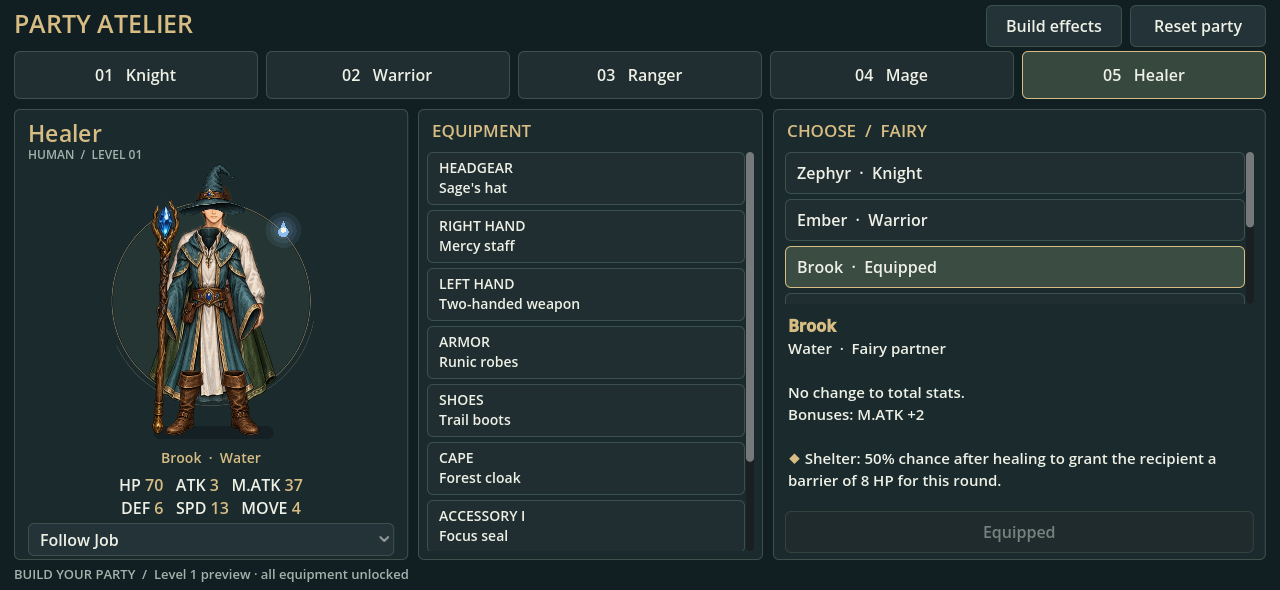
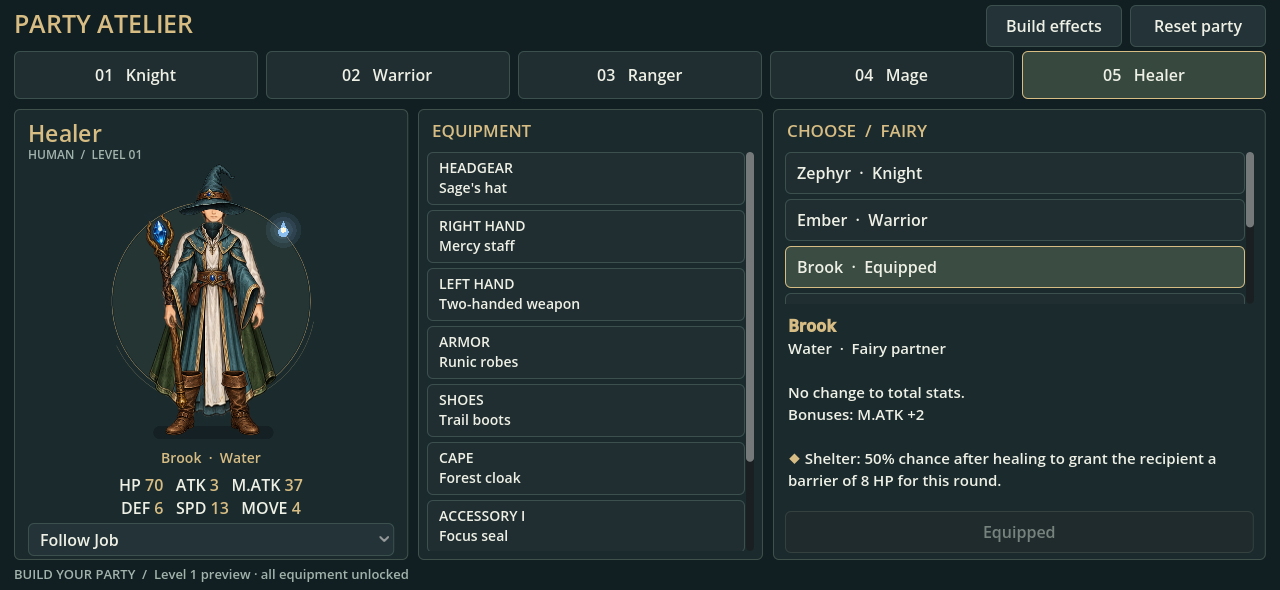
fix: anchor fantasy weapons to hands and fit armor to body (#76)

Changed region(s): [[0.0938, 0.3356, 0.2188, 0.7322]]

diff --git a/tests/test_fantasy_builder_static.py b/tests/test_fantasy_builder_static.py
@@ -7,6 +7,12 @@ ROOT = Path(__file__).resolve().parents[1]
 
 
 class FantasyBuilderStaticTests(unittest.TestCase):
+    def test_equipment_draw_uses_registration_and_hand_occlusion(self):
+        view = (ROOT / 'src/ui/fantasy_paper_doll.gd').read_text()
+        self.assertIn('art_transform(art)', view)
+        self.assertIn('draw_gripping_hand()', view)
+        self.assertNotIn('ATLAS, PLACEMENTS[art], REGIONS[art]', view)
+
     def test_f5_runs_the_fantasy_builder(self):
         project = (ROOT / 'project.godot').read_text()
         self.assertIn('run/main_scene="res://scenes/fantasy_builder.tscn"', project)

diff --git a/docs/art/fantasy-equipment-atlas.md b/docs/art/fantasy-equipment-atlas.md
@@ -4,6 +4,12 @@ Generated with the built-in image generation tool on 2026-09-07. Source copied i
 
 This is static prototype art. Gear variants can share layers. The spear and wand currently reuse the staff silhouette; finer equipment-specific artwork is future work.
 
+## Registration correction
+
+Weapons now rotate around measured source grip points registered to the base body's palm, with uniform scaling to preserve their silhouette. The sword angles downward/outward, the staff and bow lean outward, and the shield centers on the other hand. A foreground crop of the existing wrist/fingers establishes grip occlusion without modifying the raster source.
+
+Armor uses measured collar and belt landmarks registered to the shared body's neck and waist, with independent garment-width fitting. The robe skirt extends below its registered belt without stretching the upper torso. Constants are owned by the paper-doll view and do not alter gameplay or build data. `fantasy_alignment_acceptance.gd` checks registration against independent source measurements. `tools/capture_fantasy_alignment.gd` produces a six-case equipment contact sheet including the uncovered body reference.
+
 ## Generation prompt
 
 Create a production game equipment paper-doll sprite atlas, transparent background, 2048x2048 square, exactly 4 columns and 4 rows of equal 512x512 cells, no gaps, no borders, no text. Hand-drawn 2D classic tactical JRPG illustration, delicate dark ink lines, restrained watercolor shading, silver steel, teal, oxblood and warm leather. All cells have identical full-body registration: character would stand front-facing at x=256, head centered y=92, shoulders y=152, waist y=270, hands at x=153 and 355 y=286, ankles y=433, feet end y=477. Slim adult human proportions, calm neutral standing pose with arms slightly away from torso. Row1 col1: complete adult human base with short brown hair, face, modest fitted ivory long-sleeved tunic, dark brown fitted trousers, simple leather shoes, empty hands, no armor, no cape, no weapon. Every other cell contains ONLY the named isolated equipment layer with all else transparent, positioned to overlay that exact base pose. Row1 col2: silver knight breastplate with shoulder pauldrons, torso only. Row1 col3: forest green leather ranger vest with shoulders, torso only. Row1 col4: teal mage robe torso and skirt, no head, no hands or feet. Row2 col1: open-face steel helmet fitting head at y92, face opening transparent. Row2 col2: brown leather circlet fitting forehead at y70. Row2 col3: pointed teal wizard hat fitting above head. Row2 col4: oxblood cape behind shoulders to calves, no body. Row3 col1: forest green cape behind shoulders to calves. Row3 col2: pair steel boots on lower legs y370-477. Row3 col3: pair brown leather boots same registration. Row3 col4: silver sword held in right hand on VIEWER LEFT at x153 y286, blade points downward to y465. Row4 col1: wooden bow on VIEWER LEFT x135 spanning y150-460, no hand. Row4 col2: tall wooden crystal staff on VIEWER LEFT x130 spanning y90-470, no hand. Row4 col3: heater shield on VIEWER RIGHT centered x355 y280. Row4 col4: axe on VIEWER LEFT held at x153 y286, no hand. Critical: only the first cell contains a human, all remaining 15 cells are transparent equipment sprites. Consistent scale and precise registration. Actual alpha transparency, no checkerboard painted into image. Designed for immediate compositing in Godot. No interface, no lettering, no environment.

diff --git a/docs/fantasy-building-screen.md b/docs/fantasy-building-screen.md
@@ -37,9 +37,9 @@ Open this checkout's `project.godot` in Godot and press F5, or use `launch-fanta
 ## Verification — 2026-09-07
 
 - Red: the three new Python contracts failed for the missing catalog/model/scene; Godot acceptance failed for the missing model before implementation.
-- Green: `python -m unittest discover` — 65 tests passed, including default F5 entry and Windows path quoting.
+- Green: `python -m unittest discover` — 66 tests passed, including default F5 entry, Windows path quoting and attachment rendering ownership.
 - `godot --headless --path . -s res://tests/godot/battle_milestone_test.gd` — GODOT TESTS PASSED, including new equipment restrictions, previews without mutation, stat stacking, unique fairy transfer, local save round-trip, malformed save rejection and UI interaction checks.
-- `python tools/gdscript_function_coverage.py --godot <Godot executable> --fail-under 80` — 420/435 functions, 96.6%.
+- `python tools/gdscript_function_coverage.py --godot <Godot executable> --fail-under 80` — 422/437 functions, 96.6%.
 - Existing Phase 2 evidence generator reproduced its committed report without a content diff.
 - Rendered 1280×590 and 844×390 layouts using `tools/capture_fantasy_builder.gd`, with isolated in-memory builds. Evidence is under `docs/playtest/fantasy/`.
 - Only the static screen is implemented. Ability descriptions and numbers are provisional preparation data, not functioning fantasy combat. Stat allocation remains deferred. Some gear variants share illustration layers; accessories have no body layer. Narrow screens use scrollable equipment, candidates and descriptions.
@@ -50,3 +50,7 @@ Open this checkout's `project.godot` in Godot and press F5, or use `launch-fanta
 Run the standalone scene. Select Knight → Armor → Scout leathers and compare HP/DEF/Speed before equipping. Inspect the changed illustration. Select Healer → Fairy → Zephyr; read the transfer warning, then transfer and check Knight's empty fairy slot. Equip Bloom on Healer to inspect the full-HP healing buff concept. Use Build effects to see the combined job/equipment/fairy descriptions. Restart the scene to verify local persistence. Reset party restores defaults after confirmation.
 
 Whether building is enjoyable and the character presentation suits the pivot remains the user's product judgment.
+
+## Equipment alignment review fix
+
+The first visual pass used independent rectangles for weapons and armor. The review fix registers weapon grips to the palms, rotates about those grips, preserves weapon aspect ratios, fits armor collar/waist to the base body, and draws the right hand over held equipment. New Python/Godot tests failed before implementation and verify the shared registration. Scope remains illustration only; model and combat rules are unchanged. Review evidence includes `docs/playtest/fantasy/equipment-alignment.png` alongside updated screen captures.
